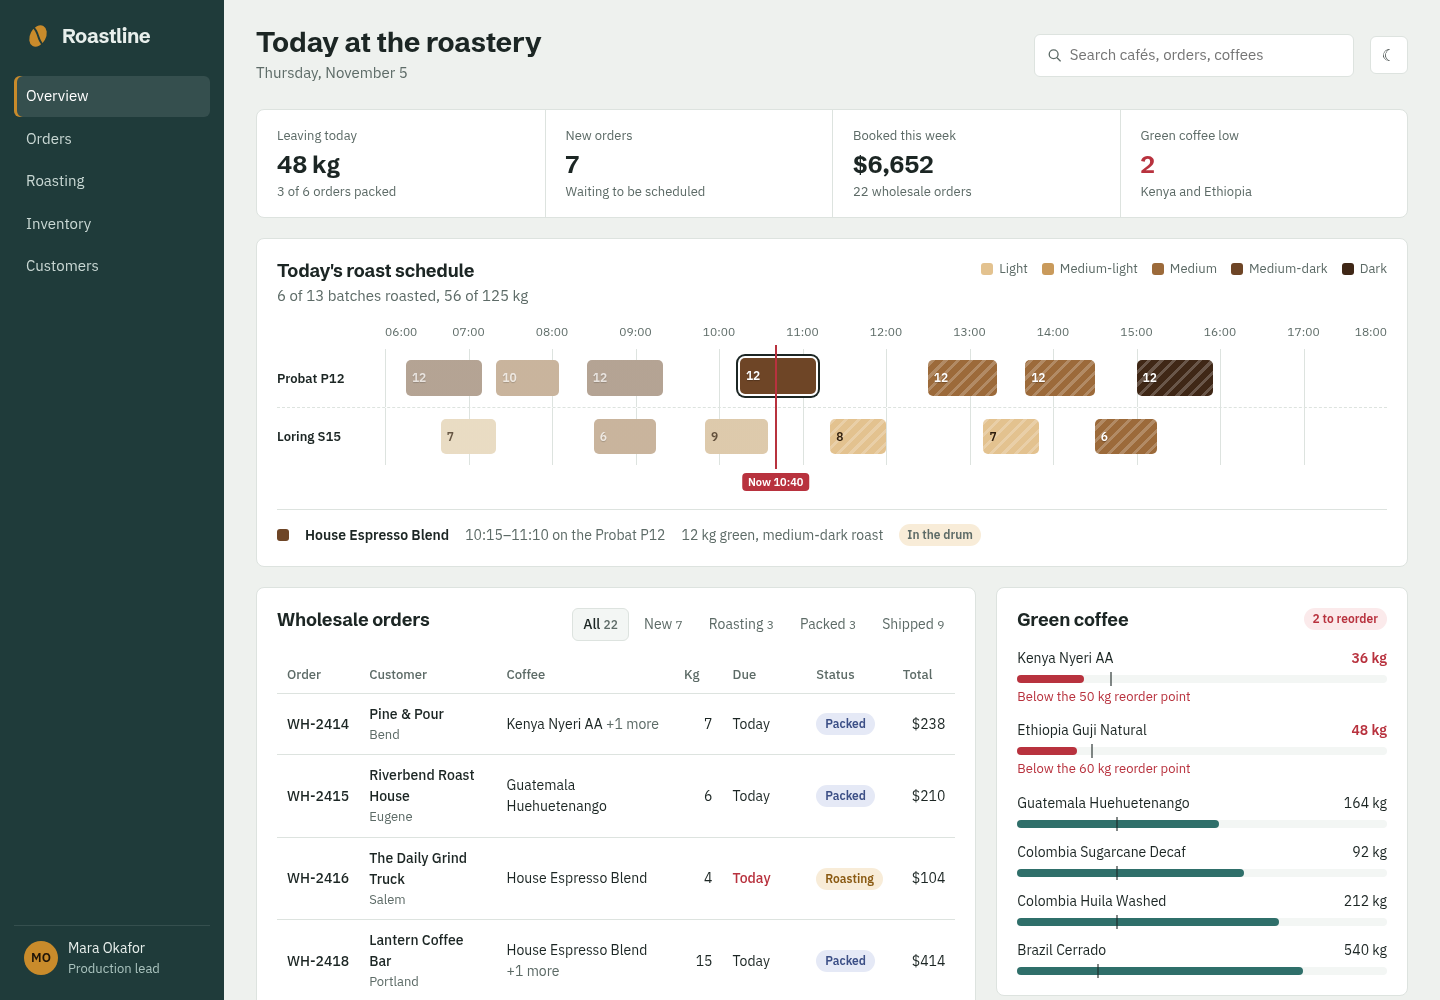
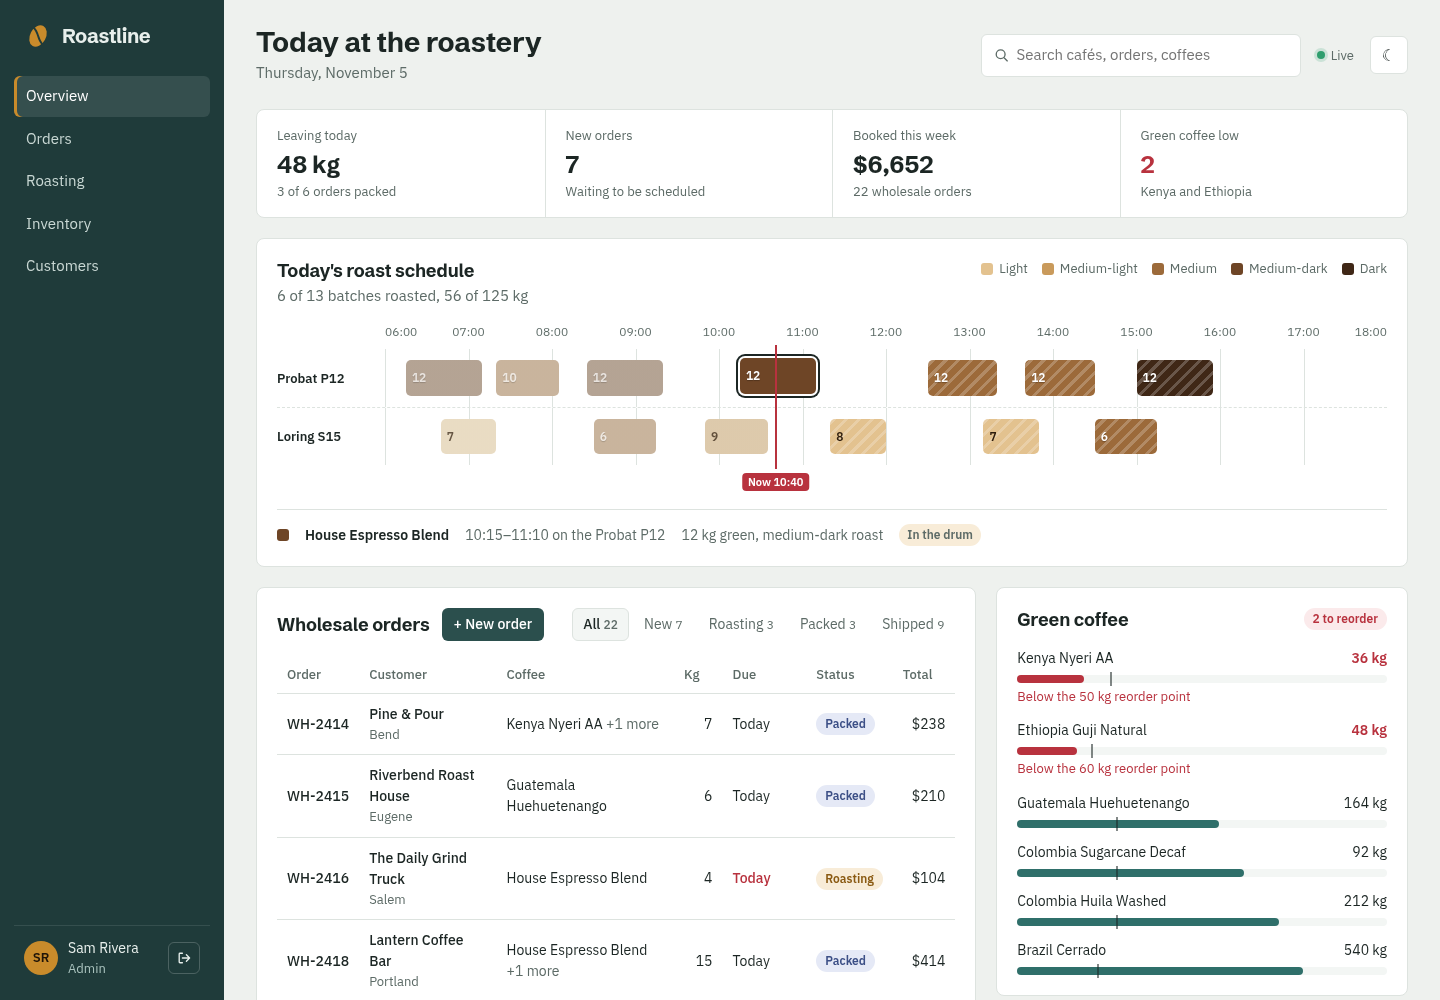
Deliver live events locally after commit; live demo links in README
- PostgreSQL store hands events to local subscribers right after COMMIT,
  so live updates no longer depend on LISTEN working (pooled or
  suspended serverless connections drop notifications silently)
- LISTEN/NOTIFY still fans out to other instances; duplicates dropped by
  event id; the listener reconnects on 'end' and pings every minute
- Warn when DATABASE_URL is a pooled connection
- Test: each change is delivered exactly once
- README: live demo links, demo accounts, new screenshots

diff --git a/api/src/store/postgres.ts b/api/src/store/postgres.ts
@@ -90,7 +90,8 @@ async function insertBatchRows(db: Queryable, b: Batch) {
   }
 }
 
-function api(db: Queryable): Tx {
+/** `events` collects emit() calls in a transaction, so they can be delivered locally after COMMIT. */
+function api(db: Queryable, events?: AppEvent[]): Tx {
   return {
     async listOrders() {
       const { rows } = await db.query<OrderRow>(`${ORDER_SELECT} GROUP BY o.id ORDER BY o.id`);
@@ -177,7 +178,8 @@ function api(db: Queryable): Tx {
     },
 
     async emit(event) {
-      // NOTIFY inside a transaction is delivered on COMMIT and dropped on ROLLBACK.
+      events?.push(event);
+      // For other API instances. NOTIFY inside a transaction is delivered on COMMIT and dropped on ROLLBACK.
       await db.query('SELECT pg_notify($1, $2)', [CHANNEL, JSON.stringify(event)]);
     },
   };
@@ -186,7 +188,10 @@ function api(db: Queryable): Tx {
 export class PgStore implements Store {
   private listeners = new Set<Listener>();
   private listener?: pg.Client;
+  private keepAlive?: ReturnType<typeof setInterval>;
   private closed = false;
+  /** Ids of events already delivered locally, so their NOTIFY echo is skipped. */
+  private delivered = new Map<string, number>();
 
   private constructor(
     private pool: pg.Pool,
@@ -194,35 +199,65 @@ export class PgStore implements Store {
   ) {}
 
   /**
-   * One dedicated connection LISTENs for changes from every API instance and
-   * fans them out to this process's subscribers. Reconnects if it drops.
+   * Delivery has two paths. Events from this process go straight to its
+   * subscribers after COMMIT, so they never depend on LISTEN working.
+   * Events from other API instances arrive through LISTEN/NOTIFY; the id check
+   * drops the echo of our own events.
+   */
+  private deliver(event: AppEvent) {
+    const now = Date.now();
+    if (this.delivered.has(event.eid)) return;
+    this.delivered.set(event.eid, now);
+    for (const [eid, at] of this.delivered) if (now - at > 60_000) this.delivered.delete(eid);
+    for (const l of this.listeners) l(event);
+  }
+
+  /**
+   * One dedicated connection LISTENs for changes from other API instances.
+   * It reconnects when the connection errors or ends (Neon, for example, closes
+   * connections when it suspends an idle database), and a periodic query
+   * notices a connection that died silently.
    */
   private async listen() {
     if (this.closed) return;
-    const client = new pg.Client({ connectionString: this.connectionString });
-    const retry = () => {
+    if (/-pooler\./.test(this.connectionString)) {
+      console.warn('DATABASE_URL uses a pooled connection; LISTEN/NOTIFY needs a direct one, so changes from other instances won\'t arrive.');
+    }
+    const client = new pg.Client({ connectionString: this.connectionString, keepAlive: true });
+    let retrying = false;
+    const retry = (why: string) => {
+      if (retrying) return;
+      retrying = true;
+      clearInterval(this.keepAlive);
       client.removeAllListeners();
+      client.on('error', () => {});
       client.end().catch(() => {});
       if (this.listener === client) this.listener = undefined;
-      if (!this.closed) setTimeout(() => this.listen().catch(() => {}), 2000).unref();
+      if (!this.closed) {
+        console.warn(`Event listener disconnected (${why}); reconnecting.`);
+        setTimeout(() => this.listen().catch(() => {}), 2000).unref();
+      }
     };
-    client.on('error', retry);
+    client.on('error', (e) => retry(e.message));
+    client.on('end', () => retry('connection ended'));
     client.on('notification', (msg) => {
       if (msg.channel !== CHANNEL || !msg.payload) return;
-      let event: AppEvent;
       try {
-        event = JSON.parse(msg.payload);
+        this.deliver(JSON.parse(msg.payload));
       } catch {
-        return;
+        /* ignore a malformed payload */
       }
-      for (const l of this.listeners) l(event);
     });
     try {
       await client.connect();
       await client.query(`LISTEN ${CHANNEL}`);
       this.listener = client;
-    } catch {
-      retry();
+      this.keepAlive = setInterval(() => {
+        client.query('SELECT 1').catch((e) => retry(e.message));
+      }, 60_000);
+      this.keepAlive.unref();
+    } catch (e) {
+      retry((e as Error).message);
     }
   }
 
@@ -265,8 +300,10 @@ export class PgStore implements Store {
     const client = await this.pool.connect();
     try {
       await client.query('BEGIN');
-      const result = await fn(api(client));
+      const events: AppEvent[] = [];
+      const result = await fn(api(client, events));
       await client.query('COMMIT');
+      for (const e of events) this.deliver(e);
       return result;
     } catch (e) {
       await client.query('ROLLBACK').catch(() => {});
@@ -317,6 +354,7 @@ export class PgStore implements Store {
 
   async close() {
     this.closed = true;
+    clearInterval(this.keepAlive);
     const l = this.listener;
     this.listener = undefined;
     await l?.end().catch(() => {});

diff --git a/api/src/events.ts b/api/src/events.ts
@@ -1,10 +1,13 @@
 /** Change notifications pushed to dashboards over Server-Sent Events. */
+import { randomUUID } from 'node:crypto';
 import type { Request } from 'express';
 
 export const EVENT_TYPES = ['order.created', 'order.updated', 'batch.created', 'batch.cancelled', 'stock.received'] as const;
 export type AppEventType = (typeof EVENT_TYPES)[number];
 
 export interface AppEvent {
+  /** Unique per event, so an instance can drop the NOTIFY echo of an event it already delivered. */
+  eid: string;
   type: AppEventType;
   /** Id of the order, batch or coffee that changed. */
   id: string;
@@ -23,6 +26,7 @@ export function eventFor(req: Request, type: AppEventType, id: string, summary: 
   const user = req.user!;
   const source = req.get('X-Client-Id');
   return {
+    eid: randomUUID(),
     type,
     id,
     summary: `${user.name} ${summary}`,

diff --git a/api/tests/api.test.ts b/api/tests/api.test.ts
@@ -376,6 +376,15 @@ describe.each(backends)('$name store', ({ make }) => {
       });
     });
 
+    it('delivers each change exactly once', async () => {
+      const seen: AppEvent[] = [];
+      const off = store.subscribe((e) => e.id === 'WH-2422' && seen.push(e));
+      await as().post('/api/v1/orders/WH-2422/status').send({ status: 'Roasting' });
+      await new Promise((r) => setTimeout(r, 500)); // let a NOTIFY echo arrive, if any
+      off();
+      expect(seen).toHaveLength(1);
+    });
+
     it('publishes nothing when the change is rejected', async () => {
       const got = nextEvent((e) => e.type === 'batch.created', 800);
       const res = await as()

diff --git a/README.md b/README.md
@@ -7,9 +7,20 @@ A full-stack operations tool for a small wholesale coffee roaster: orders, the d
 - **[`api/`](api)**: REST API in Node.js, Express 5, TypeScript and PostgreSQL, documented with OpenAPI 3 and Swagger UI.
 - **[`dashboard/`](dashboard)**: React 18 and TypeScript admin dashboard (Vite, Recharts) that runs on the API.
 
-<!-- After deploying, add the live links here:
-**Live demo:** [Dashboard](https://...netlify.app) · [API docs (Swagger UI)](https://...onrender.com/docs)
--->
+## Live demo
+
+- **Dashboard:** https://iridescent-pixie-a0c47c.netlify.app
+- **API docs (Swagger UI):** https://roastline-api.onrender.com/docs
+
+Sign in with one click on the sign-in screen, or use these accounts (password `roastline-demo`):
+
+| Account | Role | Can |
+|---|---|---|
+| `admin@roastline.dev` | admin | everything, including taking orders and seeing revenue |
+| `production@roastline.dev` | production | move orders, schedule and cancel roasts, receive coffee (no prices or revenue) |
+| `viewer@roastline.dev` | viewer | read only |
+
+Try it in two browser windows: change something as production in one and watch the other update. The demo runs on free hosting, so the first request after a quiet spell can take up to a minute while the API wakes up. Demo data resets every night.
 
 ![Roastline dashboard](docs/dashboard-overview.png)
 
@@ -19,12 +30,16 @@ A full-stack operations tool for a small wholesale coffee roaster: orders, the d
 - **JWT sign-in with roles** (admin, production, viewer): rotating refresh tokens with reuse detection, scrypt password hashes, role checks on every write. The dashboard has one-click demo accounts.
 - **Field-level permissions.** Production staff don't receive prices, order values or revenue at all; the API strips them and refuses to sort by them, and the dashboard swaps revenue figures for roasting volume.
 - **Forms that surface server rules.** Creating orders, scheduling roasts and receiving coffee show the API's validation and business errors next to the right field (e.g. *"Probat P12 is busy from 10:15 to 11:10"* under the start time).
-- **Real-time.** Every committed change is pushed to open dashboards over Server-Sent Events, fanned out across API instances with PostgreSQL `LISTEN`/`NOTIFY`. Open two browsers, move an order in one, and the other updates with a toast saying who did it.
+- **Real-time.** Every committed change is pushed to open dashboards over Server-Sent Events. Each instance delivers its own changes right after COMMIT, and PostgreSQL `LISTEN`/`NOTIFY` carries them to other instances (with duplicate suppression and reconnects). Open two browsers, move an order in one, and the other updates with a toast saying who did it.
 - **Safe under concurrent use.** Writes run in PostgreSQL transactions with row locks and a per-roaster advisory lock. Tests fire parallel requests to prove a slot can't be double-booked and stock updates aren't lost.
 - **Design-first API.** The OpenAPI spec was written before the code and is served as interactive docs at `/docs`.
 - **One error shape everywhere** (`{ error: { code, message, details } }`), which the dashboard shows to the user.
-- **Tested.** 41 API tests run against both the PostgreSQL and the in-memory store. CI on every push: typecheck, tests on a PostgreSQL service container, lint, builds and the Docker image.
+- **Tested.** 42 API tests run against both the PostgreSQL and the in-memory store. CI on every push: typecheck, tests on a PostgreSQL service container, lint, builds and the Docker image.
 - **Polished UI.** Light and dark themes, mobile layouts, keyboard and screen-reader support.
+
+| Sign-in with demo accounts | Server rules shown on the form |
+|---|---|
+| ![Sign-in screen](docs/sign-in.png) | ![Schedule conflict shown under the start time](docs/schedule-conflict.png) |
 
 ![409 conflict in Swagger UI](api/screenshots/2-batch-conflict-409.png)
 

diff --git a/api/README.md b/api/README.md
@@ -21,8 +21,8 @@ REST API behind the [Roastline dashboard](../dashboard): an operations tool for 
 - **Two interchangeable stores** behind one interface: PostgreSQL when `DATABASE_URL` is set, in-memory otherwise (zero-setup demo). Plain SQL migrations run automatically on start, and an empty database is seeded with demo data.
 - **JWT sign-in with roles.** 15-minute access tokens (HS256) and single-use refresh tokens stored as SHA-256 hashes. Refresh tokens rotate on every use; replaying an old one revokes every token from that sign-in. Passwords are hashed with scrypt, and unknown emails take as long to reject as wrong passwords. Three roles: `admin` (everything), `production` (move orders, schedule and cancel batches, record deliveries), `viewer` (read only), enforced per route with `403 FORBIDDEN`.
 - **Field-level permissions.** Production staff run the roasting floor without seeing money: `total`, `lineTotal`, `pricePerKg` and `totalSpent` are left out of their responses on the server (not just hidden in the UI), and sorting by those fields returns `403` because the order alone would leak the ranking. Admin and viewer see everything.
-- **Live updates over Server-Sent Events.** `GET /events` streams every committed change. Writes call `pg_notify` inside their transaction, so a notification goes out only if the change commits, and every API instance `LISTEN`s, so clients connected to any instance hear about changes made on another. Streams send heartbeats, close when the access token expires (the client reconnects with a fresh one) and are ended on shutdown so deploys don't hang.
-- **41 automated tests**, run against both stores (82 runs), covering the happy paths, every error code, roles, field-level permissions, token rotation, live events and concurrent requests.
+- **Live updates over Server-Sent Events.** `GET /events` streams every committed change. Events are delivered by the instance that made the change right after COMMIT, and also sent with `pg_notify` inside the transaction (so nothing is announced for a rolled-back change); other instances `LISTEN` and pick them up, dropping duplicates by event id. The listener reconnects when the connection drops (e.g. a serverless database suspending) and warns if `DATABASE_URL` is a pooled connection, which can't deliver notifications. Streams send heartbeats, close when the access token expires (the client reconnects with a fresh one) and are ended on shutdown so deploys don't hang.
+- **42 automated tests**, run against both stores (84 runs), covering the happy paths, every error code, roles, field-level permissions, token rotation, live events and concurrent requests.
 
 ![409 conflict in Swagger UI](screenshots/2-batch-conflict-409.png)
 
